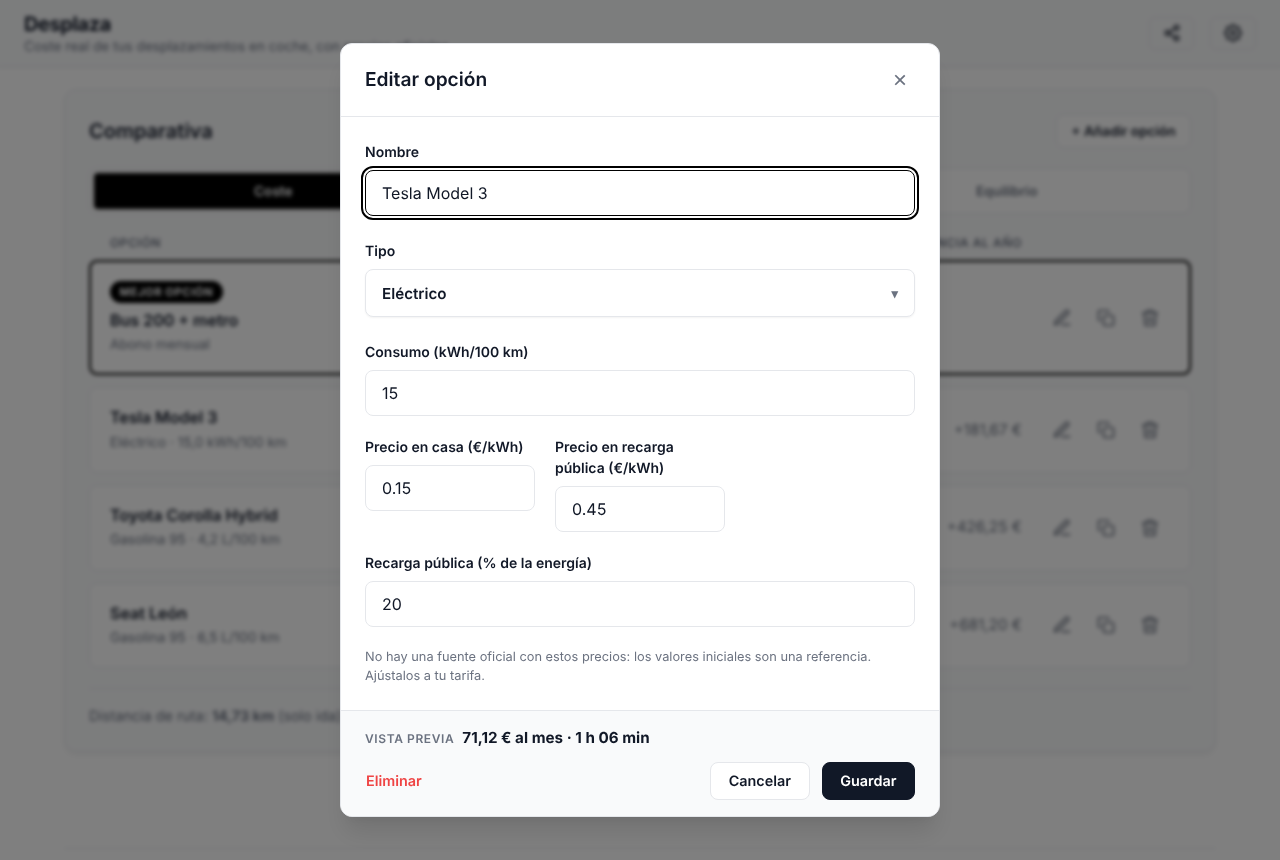
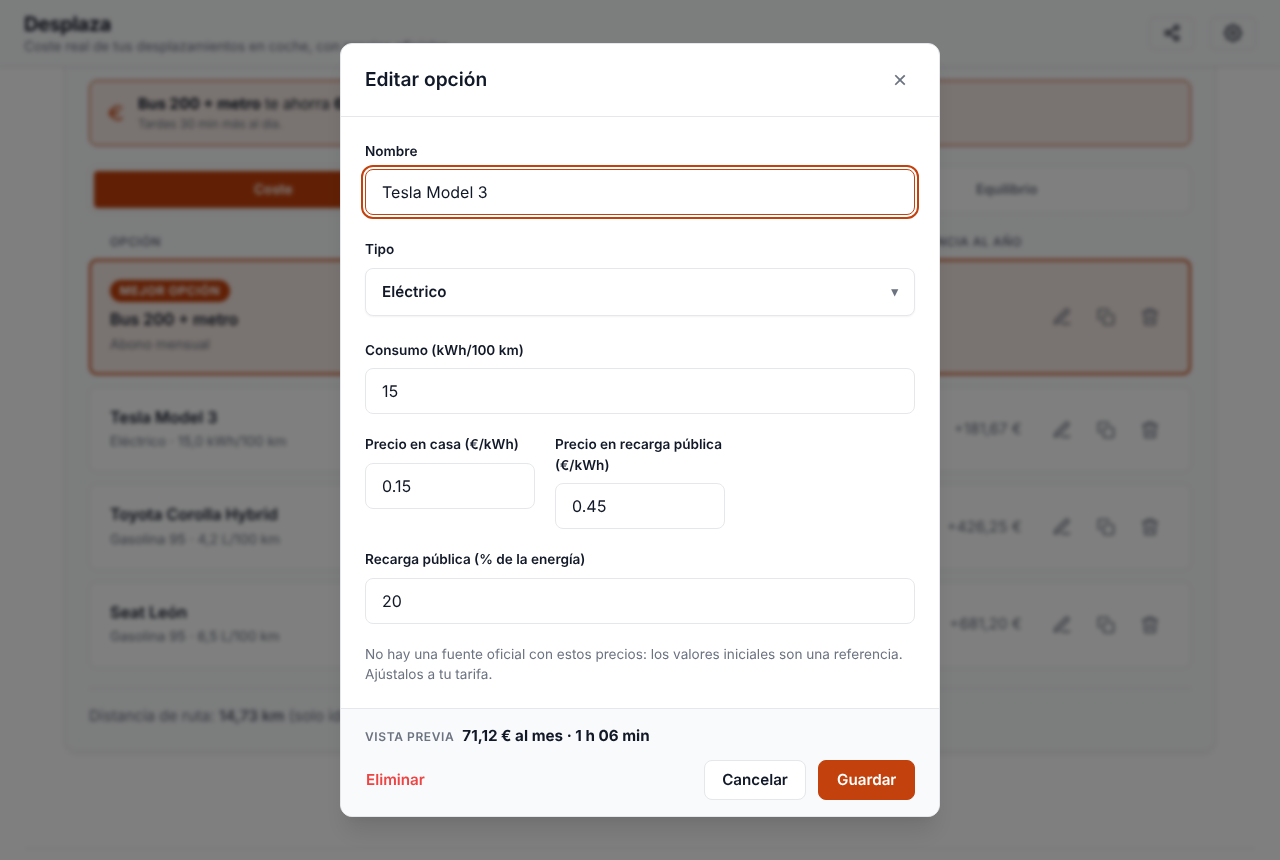
chore(release): prepare v2.1.0
Version 2.1.0, changelog, new screenshots, evolution page with a third
stage and a regenerated preview image.

diff --git a/docs/evolution/README-es.md b/docs/evolution/README-es.md
@@ -10,7 +10,7 @@ Cómo Desplaza pasó de su primer commit a hoy, con las capturas para verlo.
 
 Desplaza ha crecido por función, no por aspecto. Empezó con un coche, una ruta y un coste mensual. La idea de comparar todas las formas de hacer el mismo trayecto obligó a crear piezas nuevas: un modal para crear y editar cada opción con campos que dependen de su tipo, una ordenación por coste, tiempo o equilibrio, una tabla en pantallas anchas y tarjetas en el móvil, una comparativa guardada y un formato de enlace para compartir que sigue abriendo los enlaces antiguos. El trabajo de accesibilidad que se había quedado en una rama sin integrar entró por el camino, y la página se simplificó con la cabecera y el pie comunes.
 
-Versiones: la v1.0.0 y la v1.0.1 (agosto de 2026) se quedan como estaban; este trabajo es la versión mayor siguiente, la 2.0.0.
+Versiones: la v1.0.0 y la v1.0.1 (agosto de 2026) se quedan como estaban; la comparativa de opciones es la 2.0.0 y el nuevo aspecto con el veredicto es la 2.1.0.
 
 ## Cronología
 
@@ -19,12 +19,13 @@ Versiones: la v1.0.0 y la v1.0.1 (agosto de 2026) se quedan como estaban; este t
 | Agosto de 2026 | Primer commit y primeras versiones públicas (v1.0.0 y v1.0.1): un coche, los precios del MITECO, una ruta en un mapa y el coste mensual y anual. Una rama con trabajo de accesibilidad y usabilidad se quedó sin integrar. |
 | Octubre de 2026 | Software libre (AGPL-3.0), sin Google Analytics ni banner de cookies, documentación honesta de los servicios de terceros, un sistema de diseño compartido con las otras dos herramientas y CI que condiciona cada despliegue. Se integró la rama de accesibilidad: la búsqueda de direcciones pasó a ser un combobox accesible con teclado y la ventana de fuentes un diálogo de verdad. |
 | Octubre de 2026 | Comparativa de varias opciones sobre el mismo trayecto: coches, una moto, un coche eléctrico y transporte público, ordenadas por coste, tiempo o equilibrio, editadas en un modal y mostradas como tabla en pantallas anchas. Publicada como v2.0.0, sobre la v1.0.0 y la v1.0.1. |
+| Noviembre de 2026 | Un aspecto nuevo y una frase de veredicto: acento naranja en claro y oscuro, una escala de texto común con las otras dos herramientas, una frase sobre la comparativa con lo que ahorra la opción más barata frente a la más cara y cuánto más tarda, y el arreglo de la tabla que aplastaba los nombres entre 760 y 900 px. Publicada como v2.1.0. |
 
 ## En cifras
 
 | | Antes (agosto de 2026) | Ahora |
 | --- | --- | --- |
-| Tests automáticos | 3 | 69 |
+| Tests automáticos | 3 | 73 |
 | Licencia | Todos los derechos reservados | AGPL-3.0 |
 | Analítica | Google Analytics y banner de cookies | Ninguna |
 | Despliegue | Sin ningún test ni comprobación | Solo si pasan lint, formato, componentes compartidos, tests y build |

diff --git a/docs/evolution/README.md b/docs/evolution/README.md
@@ -10,7 +10,7 @@ How Desplaza went from its first commit to today, with the screenshots to show i
 
 Desplaza grew by function, not by look. It began as one car, one route and a monthly cost. The idea of comparing every way of making the same trip forced new pieces: a dialog to create and edit each option with fields that depend on its type, a ranking by cost, time or balance, a table on wide screens and cards on phones, a saved comparison and a share-link format that still opens the old links. The accessibility work that had stayed in an unmerged branch was brought in on the way, and the page was simplified to the shared header and footer.
 
-Releases: v1.0.0 and v1.0.1 (August 2026) stay as they were; this work is the next major version, 2.0.0.
+Releases: v1.0.0 and v1.0.1 (August 2026) stay as they were; the comparison of options is 2.0.0 and the new look with the verdict line is 2.1.0.
 
 ## Timeline
 
@@ -19,12 +19,13 @@ Releases: v1.0.0 and v1.0.1 (August 2026) stay as they were; this work is the ne
 | August 2026 | First commit and first public versions (v1.0.0 and v1.0.1): one car, MITECO fuel prices, a route on a map and the monthly and yearly cost. A branch with accessibility and usability work stayed unmerged. |
 | October 2026 | Free software (AGPL-3.0), no Google Analytics or cookie banner, honest documentation of the third-party services, one design system shared with the other two tools and CI that gates every deploy. The accessibility branch was brought in: the address search became a keyboard-accessible combobox and the sources dialog a real dialog. |
 | October 2026 | Comparison of several options on the same trip: cars, a motorbike, an electric car and public transport, ranked by cost, time or balance, edited in a dialog and shown as a table on wide screens. Published as v2.0.0, on top of v1.0.0 and v1.0.1. |
+| November 2026 | A new look and a verdict line: orange accent in light and dark, one text scale shared with the other two tools, a sentence above the comparison with what the cheapest option saves against the most expensive one and how much longer it takes, and a fix for the table that squeezed option names between 760 and 900 px. Published as v2.1.0. |
 
 ## In numbers
 
 | | Before (August 2026) | Now |
 | --- | --- | --- |
-| Automated tests | 3 | 69 |
+| Automated tests | 3 | 73 |
 | License | All rights reserved | AGPL-3.0 |
 | Analytics | Google Analytics and a cookie banner | None |
 | Deploy | Without any test or check | Only if lint, format, shared components, tests and build pass |

diff --git a/CHANGELOG.md b/CHANGELOG.md
@@ -7,7 +7,7 @@ and this project uses [Semantic Versioning](https://semver.org/). The version
 number lives in a single place, `package.json`, and is shown live in the app
 footer.
 
-## [Unreleased]
+## [2.1.0] - 2026-11-06
 
 ### Added
 - A verdict line above the comparison: the cheapest option's saving against the
